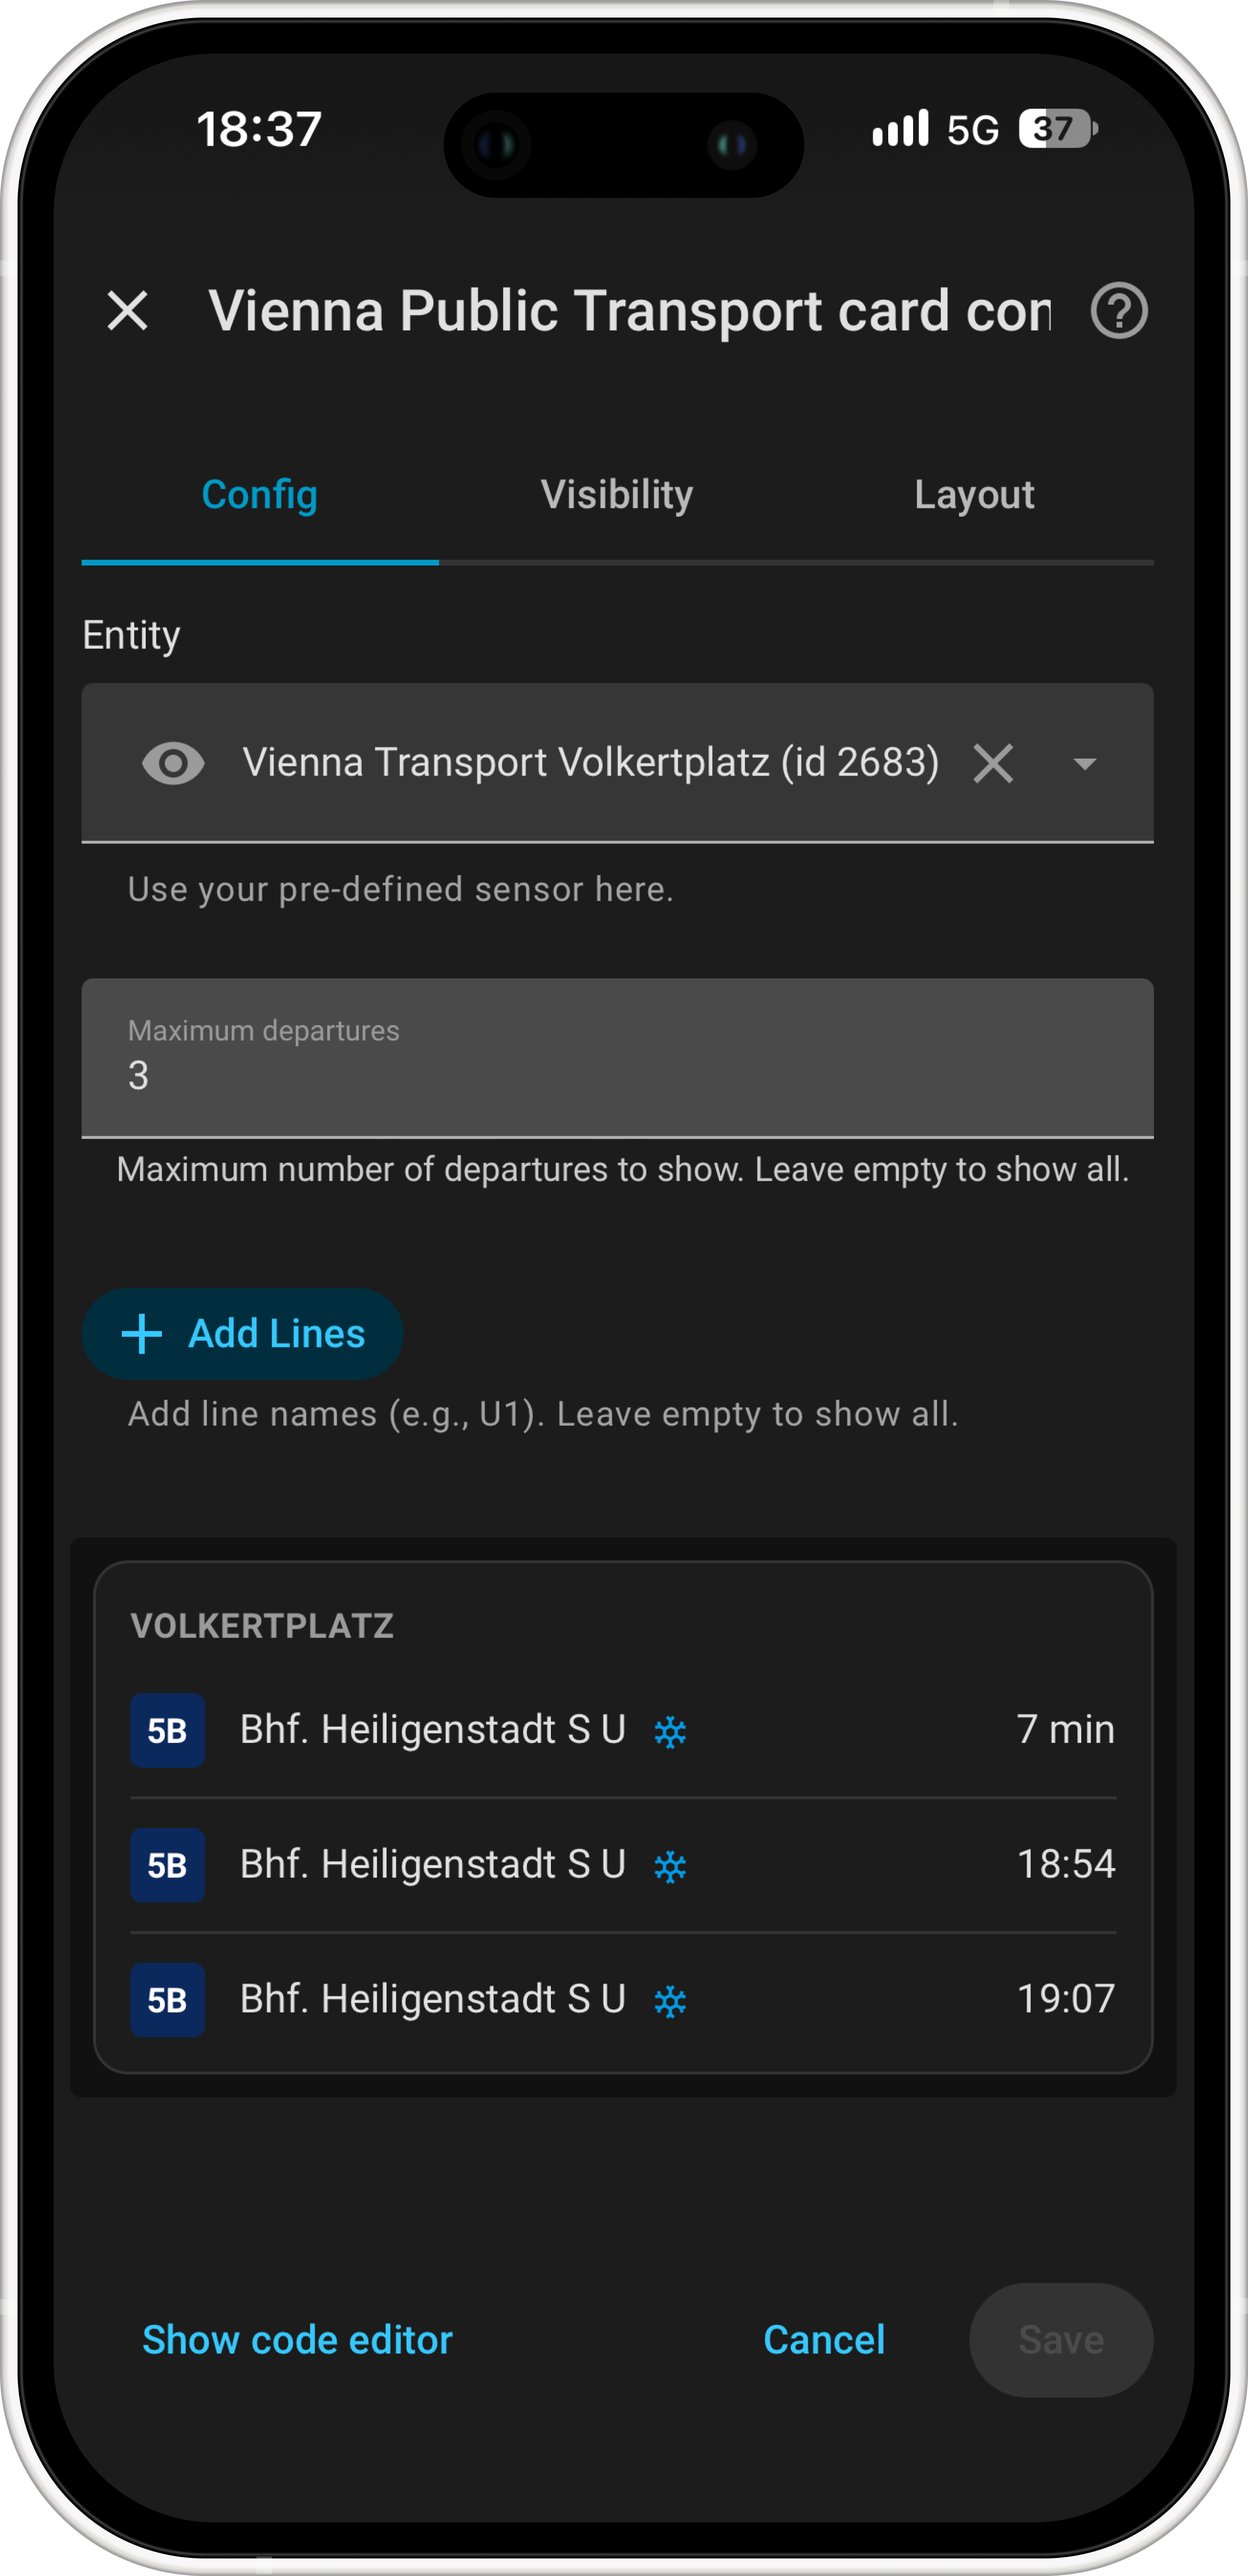
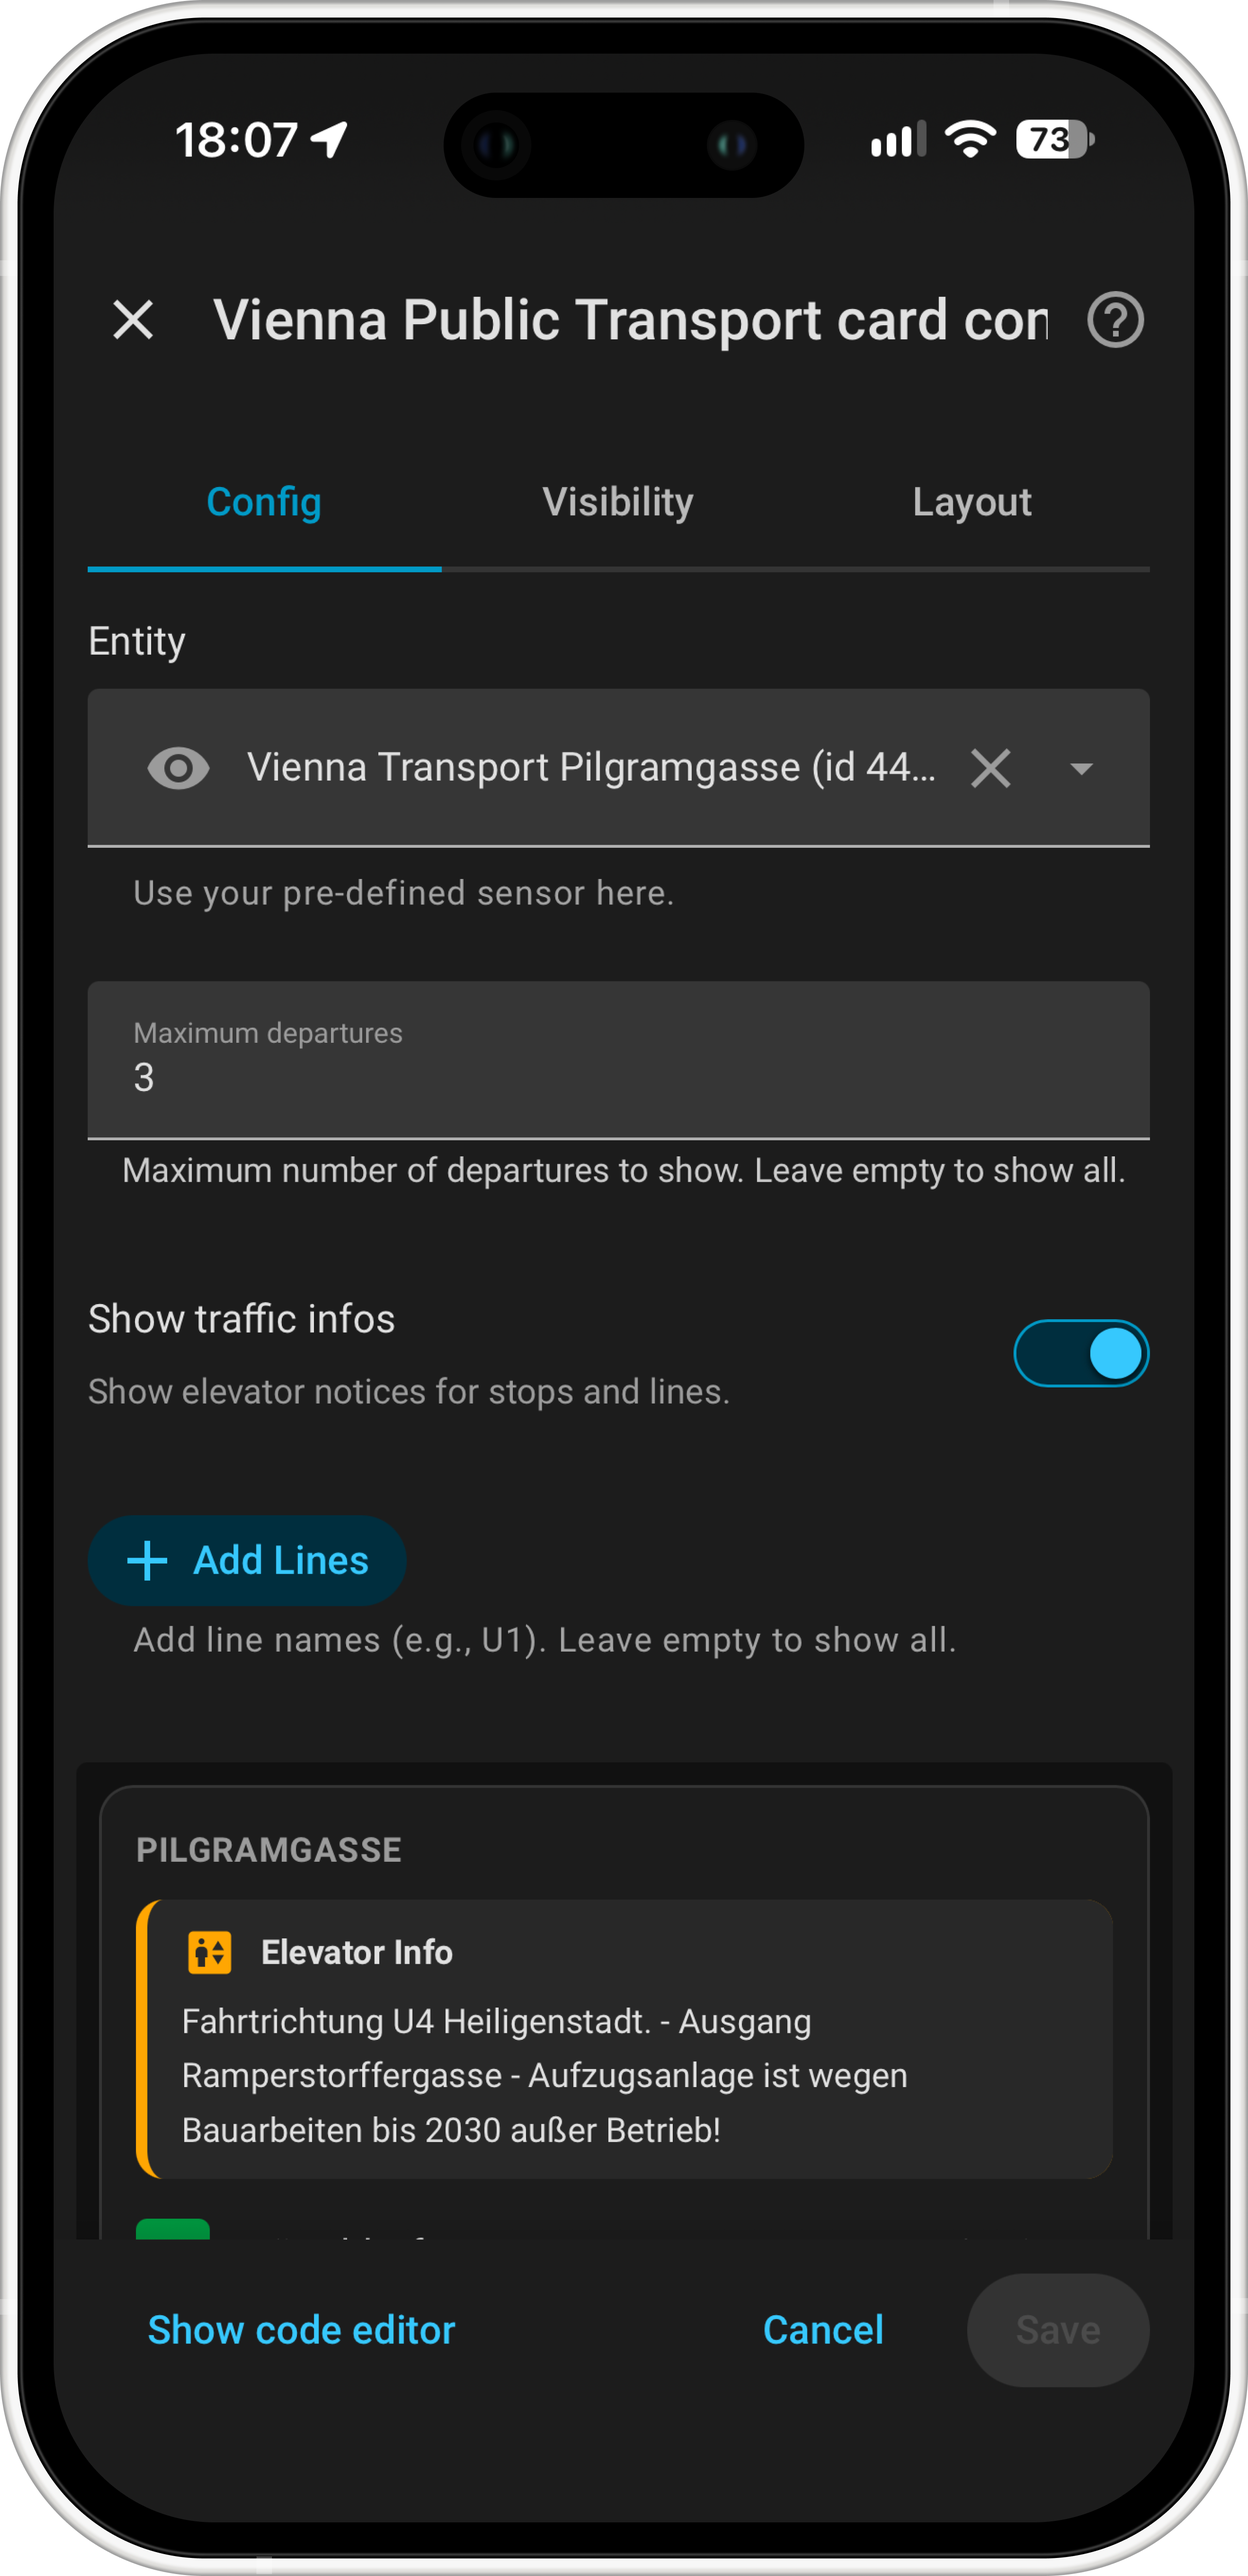
docs(readme): update screenshots (#249)

diff --git a/README.md b/README.md
@@ -10,9 +10,9 @@
 A custom integration and Lovelace card for [Home Assistant](https://www.home-assistant.io/) that displays real-time public transport departures in Vienna, Austria (Wiener Linien).
 
  <p align="center">
-  <img src="docs/images/phone-departures.png" alt="Mobile View Departures" width="280">
+  <img src="docs/images/phone-departures.png" alt="Mobile View Departures" width="290">
   &nbsp;&nbsp;
-  <img src="docs/images/phone-config.png" alt="Mobile View Configuration" width="280">
+  <img src="docs/images/phone-config.png" alt="Mobile View Configuration" width="290">
 </p>
 
 ## Features
